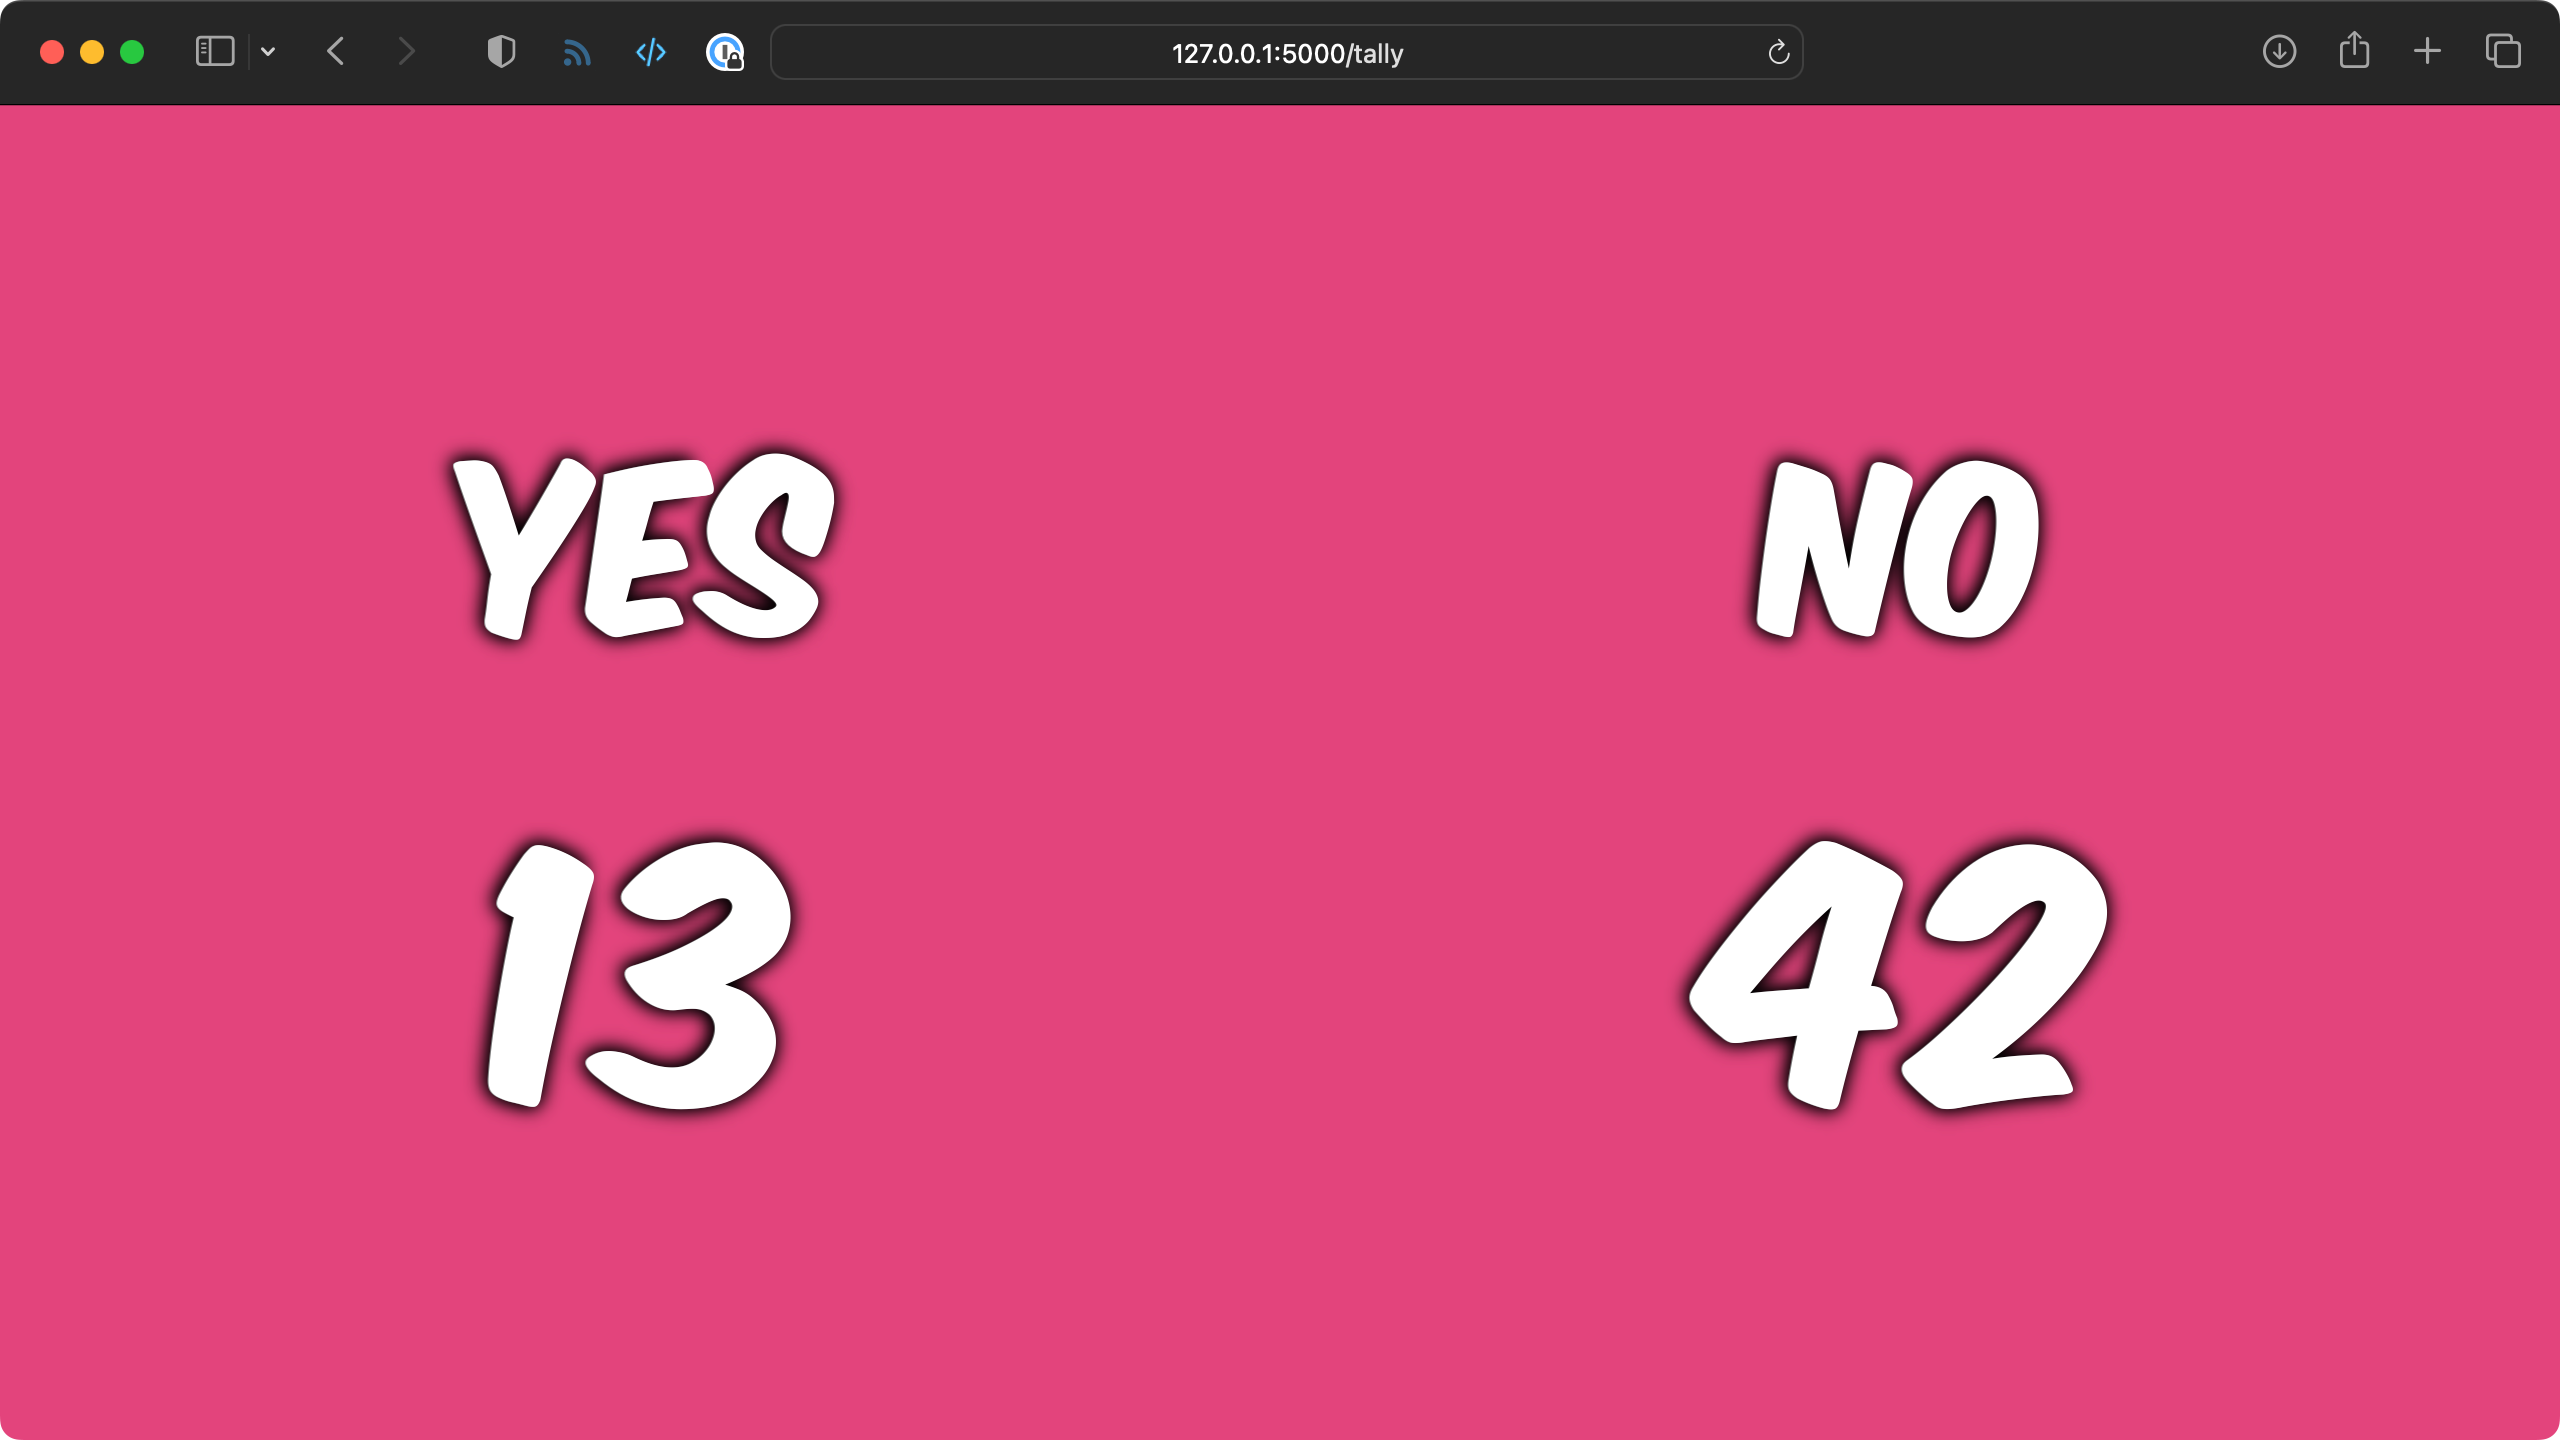
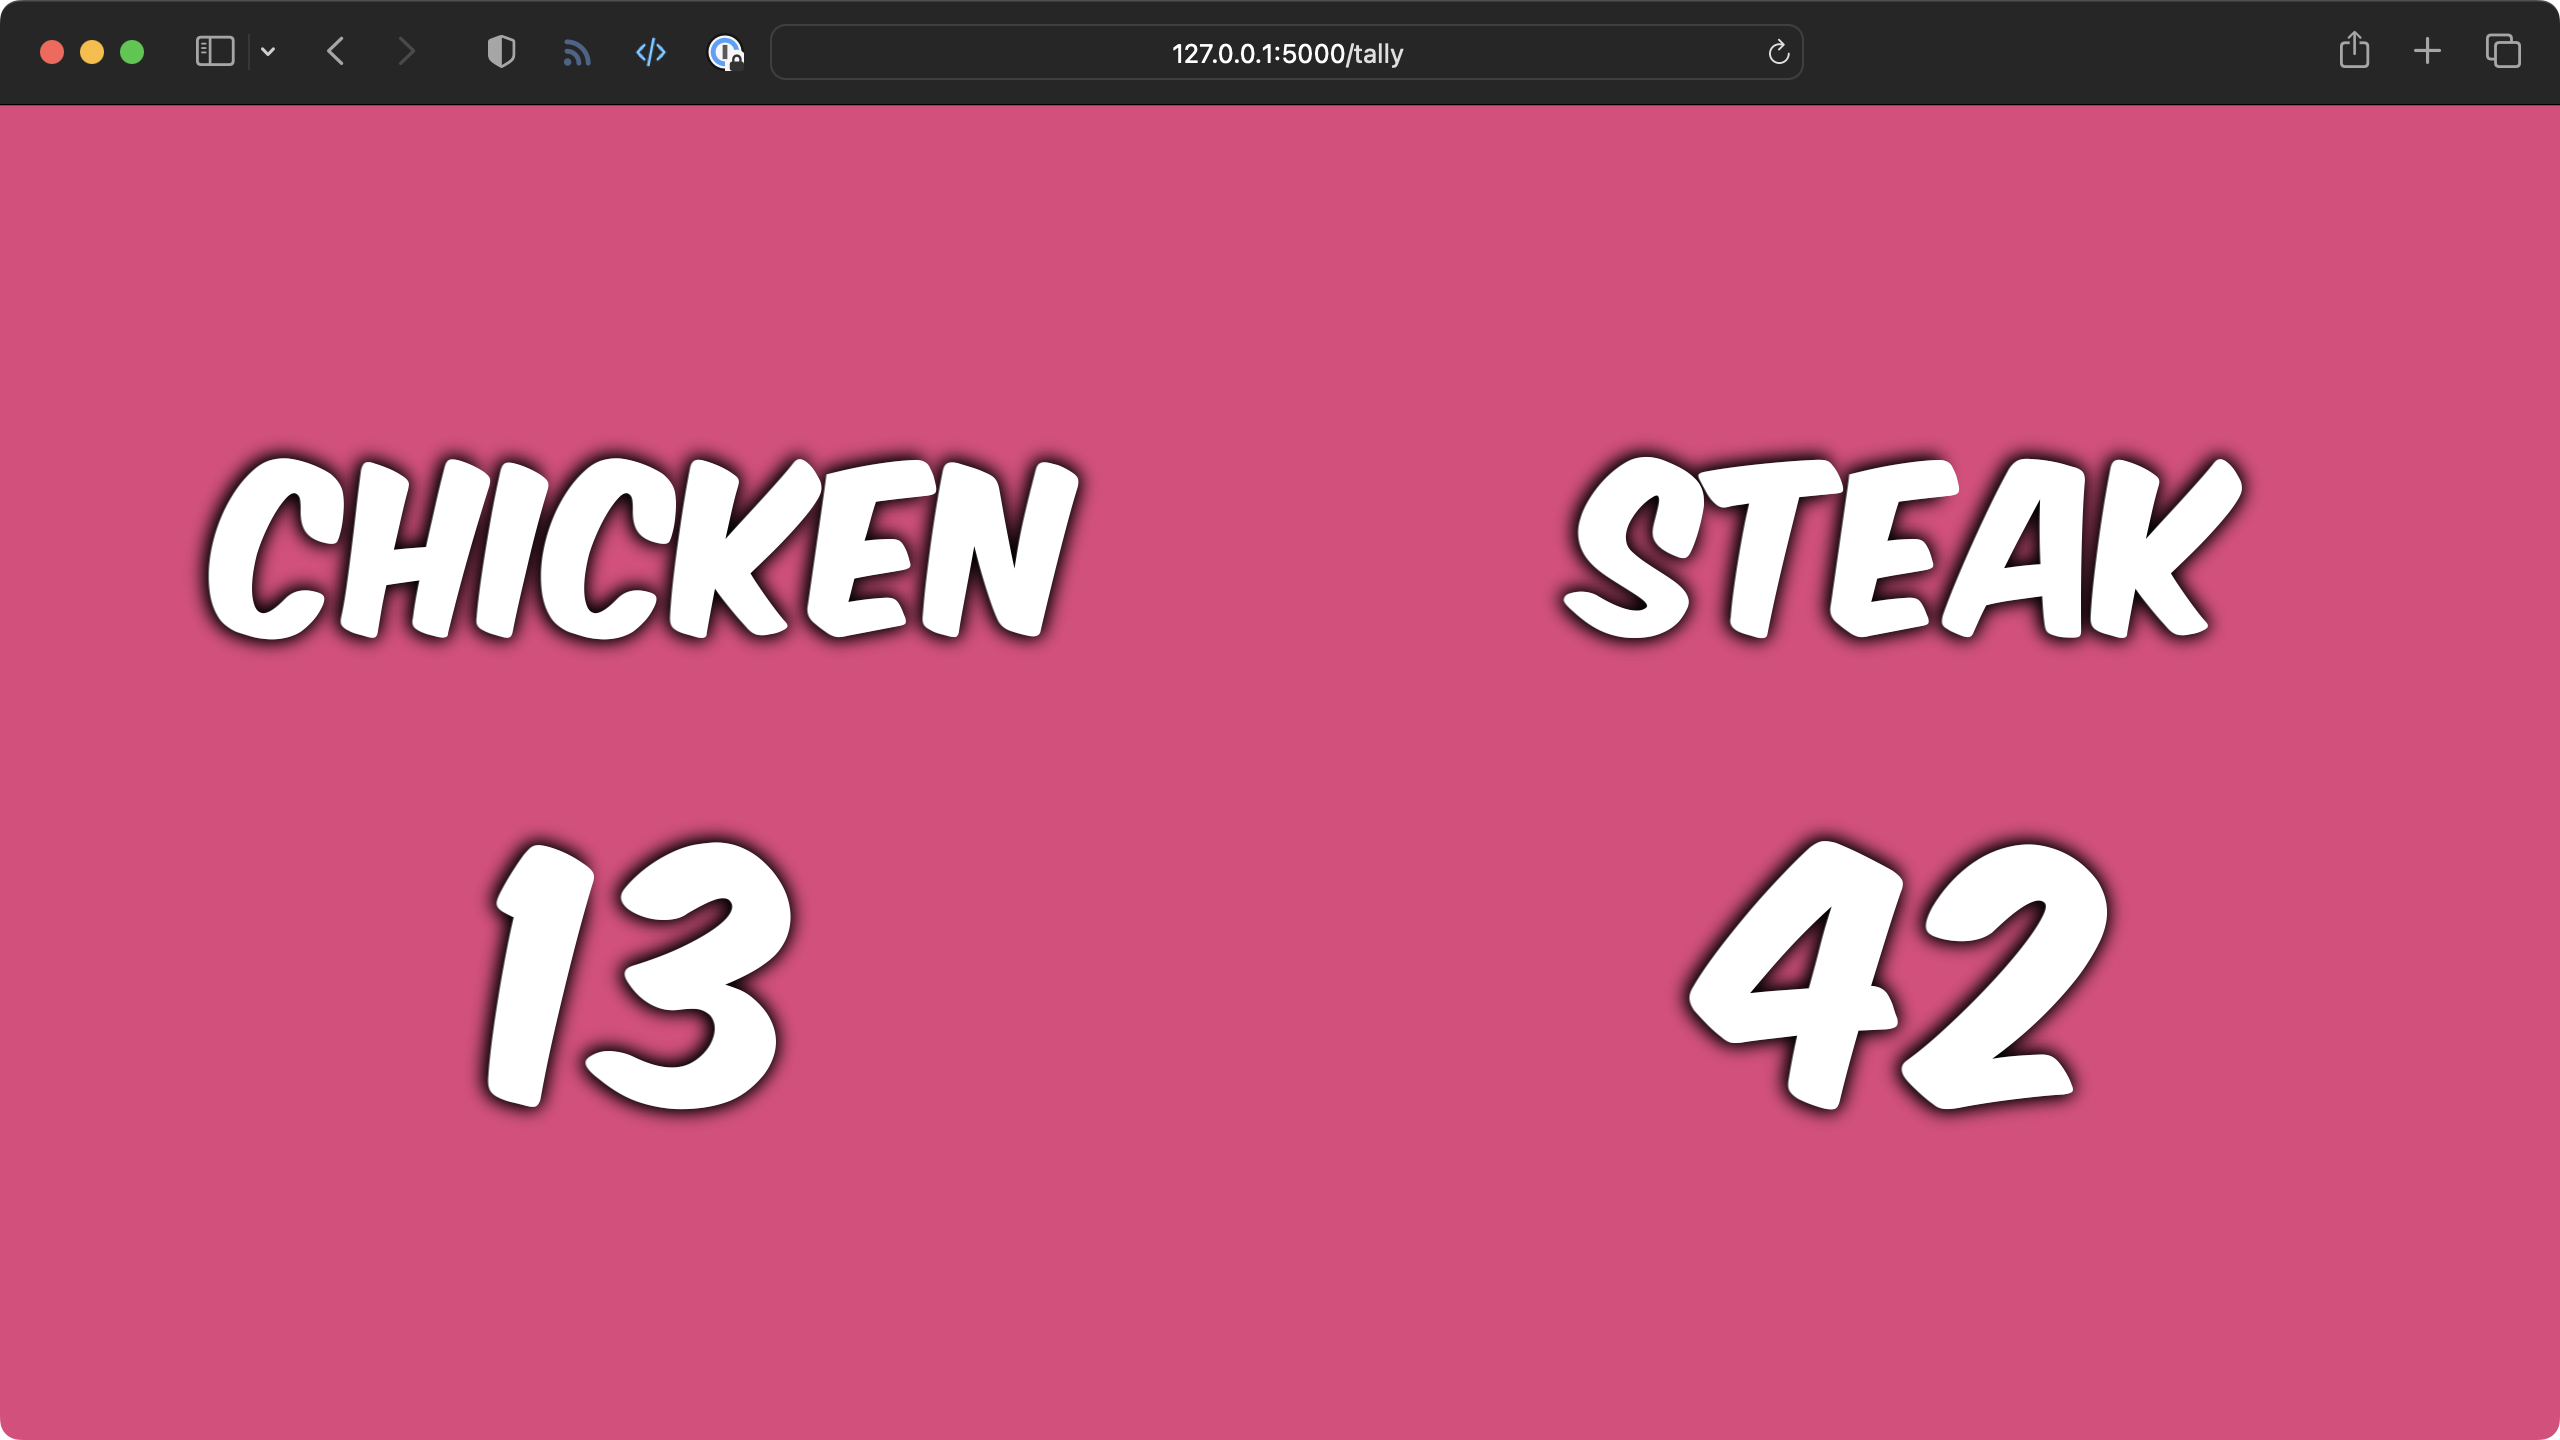
Make Test Mode a bit more useful.

Changed region(s): [[0.0625, 0.2812, 0.4375, 0.4688], [0.5938, 0.2812, 0.9062, 0.4688], [0.0312, 0.0312, 0.0625, 0.0625]]

diff --git a/leader-app/templates/test.html b/leader-app/templates/test.html
@@ -2,41 +2,44 @@
 
 {% block content %}
     <div class="container mt-2 test-display">
-        <h2>Latest Vote</h2>
-            <table class="latest-vote">
-                <tr>
-                    <td class="pt-4 pb-5" style="width: 50%;">
-                        <span class="label">Room</span><br>
-                        <span class="value">{{ votes[0].room_id }}</span>
-                    </td>
-                    <td class="pt-4 pb-5" style="width: 50%;">
-                        <span class="label">Button</span><br>
-                        <span class="value">{{ votes[0].value }}</span>
-                    </td>
-                </div>
-            </table>
+        <h2>Last Vote</h2>
+            <div class="latest-vote">
+                <table>
+                    <tr>
+                        <td class="pt-4 pb-5" style="width: 50%;">
+                            <span class="label">Room</span><br>
+                            <span class="value">{{ votes[0].room_id }}</span>
+                        </td>
+                        <td class="pt-4 pb-5" style="width: 50%;">
+                            <span class="label">Button</span><br>
+                            <span class="value">{{ votes[0].value }}</span>
+                        </td>
+                    </tr>
+                </table>
+                <div class="text-center vote-metadata pb-2">Button Pushed at: {{ votes[0].created }} for round {{ votes[0].round_id }}</div>
+            </div>
         <h2 class="mt-2">Recent Votes</h2>
         <table class="table">
-          <thead>
-            <tr>
-              <th scope="col">Room</th>
-              <th scope="col">Time</th>
-              <th scope="col">Value</th>
-              <th scope="col">Round</th>
-            </tr>
-          </thead>
-          <tbody>
-            {% for vote in votes %}
+            <thead>
+                <tr>
+                    <th scope="col">Room</th>
+                    <th scope="col">Time</th>
+                    <th scope="col">Value</th>
+                    <th scope="col">Round</th>
+                </tr>
+            </thead>
+            <tbody>
+                {% set _votes = votes.pop(0) %}
+                {% for vote in votes %}
                 <tr>
                     <th scope="row">{{ vote.room_id }}</th>
                     <td>{{ vote.created }}</td>
                     <td>{{ vote.value }}</td>
                     <td>{{ vote.round_id }}</td>
                 </tr>
-            {% endfor %}
-          </tbody>
+                {% endfor %}
+              </tbody>
         </table>
-        <p>TODO: Table of recent vote data goes here.</p>
     </div>
     <!-- Refresh page every 5 seconds -->
     <script type="text/javascript">

diff --git a/leader-app/templates/base.html b/leader-app/templates/base.html
@@ -11,7 +11,7 @@
     <link rel="stylesheet" href="{{ url_for('static', filename='custom.css') }}">
 </head>
 <body>
-    <nav class="navbar navbar-expand-lg navbar-dark bg-dark navbar-beast">
+    <nav class="navbar navbar-expand-lg navbar-dark navbar-beast">
       <div class="container">
         <a class="navbar-brand" href="{{ url_for('index') }}">Beast Game</a>
         <ul class="navbar-nav me-auto mb-2 mb-lg-0">
@@ -22,13 +22,16 @@
                 <a class="nav-link{{ ' active' if page == 'tally' }}" href="/tally">Vote Display</a>
             </li>
             <li class="nav-item">
-                <a class="nav-link{{ ' active' if page == 'test' }}" href="/test">Testing</a>
+                <a class="nav-link{{ ' active' if page == 'test' }}" href="/test">Test Mode</a>
             </li>
         </ul>
       </div>
     </nav>
     <main role="main" class="container">
         {% block content %} {% endblock %}
+        <footer class="py-3 my-4 border-top">
+            <p class="text-end text-muted">__EXECUTION_TIME__</p>
+        </footer>
     </main>
     <!-- Bootstrap JS -->
     <!-- TODO SWITCH TO LOCAL (non-CDN) COPY! -->

diff --git a/leader-app/static/custom.css b/leader-app/static/custom.css
@@ -9,8 +9,8 @@
     font-style: normal;
 }
 
-.navbar-beast {
-    background-color: #0992f9;
+nav.navbar-beast {
+    background-color: #03497d;
 }
 
 /* Home page */
@@ -33,19 +33,28 @@
     font-size: 150px;
 }
 
-/* Testing Page */
-table.latest-vote {
+/* Test Mode Page */
+.latest-vote {
     width: 100%;
     background-color: #E3447C;
-    font-family: komika_axisregular, Arial;
     color: #fff;
-    font-size: 100px;
-    text-shadow: 0 0 10px #000;
-    text-align: center;
-    vertical-align: middle;
-    font-weight: bold;
 }
 
-table.latest-vote .value {
+.latest-vote table {
+    font-size: 100px;
+    font-family: komika_axisregular, Arial;
+    font-weight: bold;
+    text-shadow: 0 0 10px #000;
+    vertical-align: middle;
+    text-align: center;
+    width: 100%;
+}
+
+.latest-vote .value {
     font-size: 150px;
+}
+
+.latest-vote .vote-metadata {
+    font-size: 20px;
+    opacity: .4;
 }

diff --git a/leader-app/app.py b/leader-app/app.py
@@ -1,5 +1,6 @@
 import sqlite3
-from flask import Flask, json, jsonify, request, make_response, render_template
+import time
+from flask import Flask, json, jsonify, request, make_response, render_template, g
 
 app = Flask(__name__)
 
@@ -98,3 +99,24 @@ def round():
     if request.method == 'POST':
         response = make_response(jsonify({'Rounds': 'This route has not yet been implemented.'}), 501)
         return response
+
+
+@app.before_request
+def before_request():
+    if app.debug:
+        g.start = time.time()
+
+
+@app.after_request
+def after_request(response):
+    if app.debug:
+        diff = (time.time() - g.start) * 1000
+        print(diff)
+        diff_string = format(diff, '.3f')
+        if ((response.response) and
+            (200 <= response.status_code < 300) and
+            (response.content_type.startswith('text/html'))):
+            replacement_text = 'Page rendered in ' + diff_string + ' ms'
+            response.set_data(response.get_data().replace(
+                b'__EXECUTION_TIME__', replacement_text.encode()))
+    return response

diff --git a/README.md b/README.md
@@ -43,6 +43,6 @@ TODO: Build the automation
 
 ![Tally Page Example](/resources/screenshots/tally-example.png)
 
-![Round Control UI](/resources/screenshots/round-control-example.png)
+![Overview UI](/resources/screenshots/overview-example.png)
 
-![Testing Page UI](/resources/screenshots/testing-page-example.png)
+![Test Mode UI](/resources/screenshots/test-mode-example.png)
